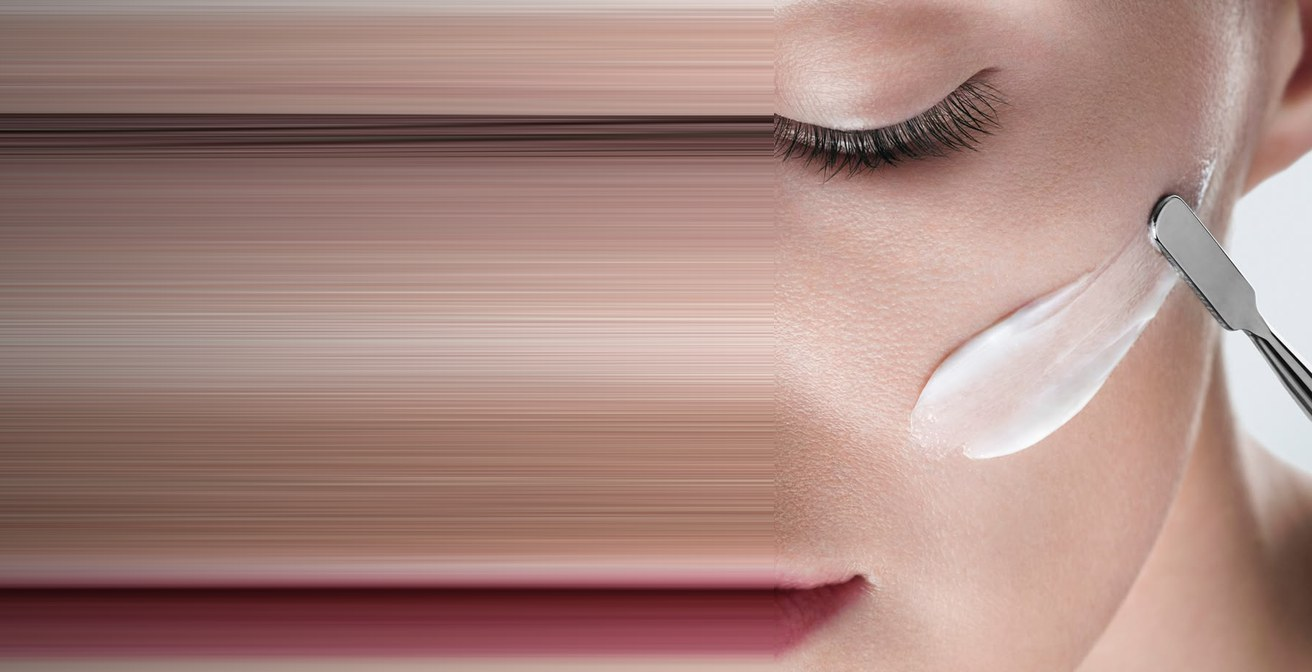
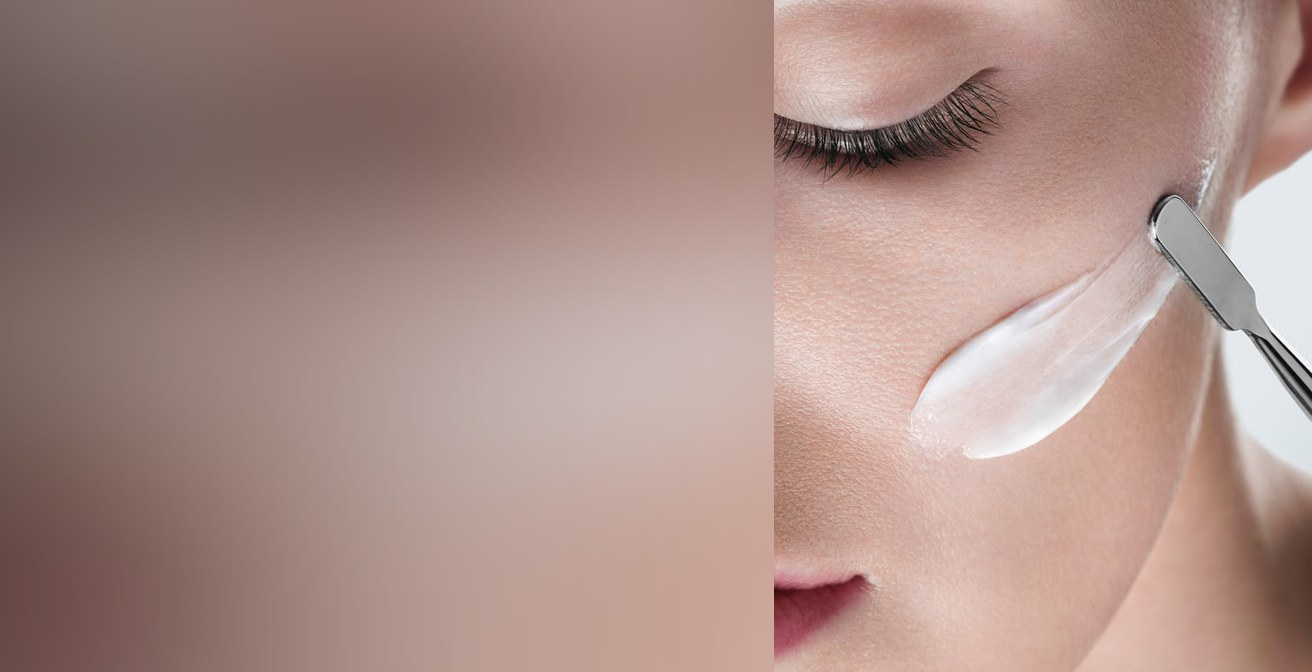
Фикс полос на обложке «Косметики» и замена оранжевых кадров
- compose() больше не растягивает краевой столбец пикселей (отсюда были
  горизонтальные полосы) — фон достраивается размытой копией кадра
- оранжевый крупный план убран из баннера SMAS, сторис и карточек
- из проекта удалены четыре кадра Omny с зашитой в картинку рекламой
  (цены и «спецпредложения» прямо на фото) — остались только чистые
- лабораторный портрет из фотобанка BYRAIN ушёл в карточку экзосом

Changed region(s): [[0.0, 0.4375, 0.5938, 1.0], [0.0, 0.0, 0.5938, 0.25]]

diff --git a/src/data/offers.ts b/src/data/offers.ts
@@ -128,7 +128,7 @@ export const OFFERS: Offer[] = [
     title: 'Ultraformer MPT, ультразвуковой SMAS-лифтинг', deal: '−45%',
     summary: 'Клиника эстетической медицины: безоперационный лифтинг на глубине SMAS. Эффект нарастает 3 месяца и держится до двух лет.',
     terms: ['Полное лицо и подбородочная зона', 'Консультация врача-косметолога', 'Контрольный визит через месяц', 'Домашний уход BYRAIN в подарок'],
-    address: 'Москва, Omny Beauty Clinic', valid: 'до 31 марта', image: 'img/omny-face.jpg', kind: 'promo', value: 120000,
+    address: 'Москва, Omny Beauty Clinic', valid: 'до 31 марта', image: 'img/omny-proc5.jpg', kind: 'promo', value: 120000,
   },
   {
     id: 'bt-omny-morpheus', section: 'beauty', brand: 'OMNY BEAUTY', city: 'Москва',
@@ -149,7 +149,7 @@ export const OFFERS: Offer[] = [
     title: 'Ботулинотерапия, техника full face', deal: '−25%',
     summary: 'Полное лицо в авторской технике: верхняя треть, периорбитальная зона и коррекция опущенных уголков.',
     terms: ['До 60 единиц препарата', 'Консультация и фотопротокол', 'Коррекция через 2 недели бесплатно'],
-    address: 'Москва, Omny Beauty Clinic', valid: 'до 31 декабря', image: 'img/omny-face2.jpg', kind: 'promo', value: 34000,
+    address: 'Москва, Omny Beauty Clinic', valid: 'до 31 декабря', image: 'img/omny-proc4.jpg', kind: 'promo', value: 34000,
   },
   {
     id: 'bt-omny-hydra', section: 'beauty', brand: 'OMNY BEAUTY', city: 'Москва',
@@ -170,28 +170,28 @@ export const OFFERS: Offer[] = [
     title: 'Fotona 4D, лазерное омоложение, курс из 3', deal: '−40%',
     summary: 'Четыре этапа за процедуру: лифтинг изнутри через слизистую, уплотнение дермы, выравнивание тона и финишная шлифовка.',
     terms: ['3 процедуры курсом', 'Все четыре этапа в каждой', 'Консультация врача перед курсом', 'Постуход включён'],
-    address: 'Москва, Omny Beauty Clinic', valid: 'до 31 мая', image: 'img/omny-proc4.jpg', kind: 'promo', value: 108000,
+    address: 'Москва, Omny Beauty Clinic', valid: 'до 31 мая', image: 'img/omny-proc6.jpg', kind: 'promo', value: 108000,
   },
   {
     id: 'bt-omny-exosome', section: 'beauty', brand: 'OMNY BEAUTY', city: 'Москва',
     title: 'Экзосомная терапия лица, курс из 3', deal: '−30%',
     summary: 'Протокол клиники на экзосомах: запуск регенерации, работа с тусклостью и мелкими морщинами после 35.',
     terms: ['3 процедуры курсом', 'Подбор протокола врачом', 'Лицо, шея и зона декольте', 'Интервал 2 недели'],
-    address: 'Москва, Omny Beauty Clinic', valid: 'до 31 июля', image: 'img/omny-proc5.jpg', kind: 'promo', value: 75000,
+    address: 'Москва, Omny Beauty Clinic', valid: 'до 31 июля', image: 'img/omny-lab.jpg', kind: 'promo', value: 75000,
   },
   {
     id: 'bt-omny-biorev', section: 'beauty', brand: 'OMNY BEAUTY', city: 'Москва',
     title: 'Биоревитализация, 3 процедуры', deal: '−25%',
     summary: 'Инъекционное увлажнение гиалуроновой кислотой: плотность, тонус и свежий тон кожи.',
     terms: ['3 процедуры курсом', 'Препарат на выбор врача', 'Анестезия включена', 'Интервал 2–3 недели'],
-    address: 'Москва, Omny Beauty Clinic', valid: 'до 31 декабря', image: 'img/omny-proc6.jpg', kind: 'promo', value: 36000,
+    address: 'Москва, Omny Beauty Clinic', valid: 'до 31 декабря', image: 'img/omny-proc.jpg', kind: 'promo', value: 36000,
   },
   {
     id: 'bt-omny-icoone', section: 'beauty', brand: 'OMNY BEAUTY', city: 'Москва',
     title: 'Icoone, аппаратный массаж тела, 10 сеансов', deal: '−35%',
     summary: 'Микростимуляция тканей: лимфодренаж, работа с отёками и плотностью кожи. Хорошо идёт в связке с Emsculpt.',
     terms: ['10 сеансов по 45 минут', 'Замеры объёмов до и после', 'Костюм предоставляется', '2–3 раза в неделю'],
-    address: 'Москва, Omny Beauty Clinic', valid: 'до 30 сентября', image: 'img/omny-portrait.jpg', kind: 'promo', value: 55000,
+    address: 'Москва, Omny Beauty Clinic', valid: 'до 30 сентября', image: 'img/omny-team.jpg', kind: 'promo', value: 55000,
   },
 
   /* ====================== КЛУБЫ ====================== */

diff --git a/src/data/stories.ts b/src/data/stories.ts
@@ -73,7 +73,7 @@ export const STORIES: Story[] = [
     id: 'st-beauty', section: 'beauty', label: 'Красота', cover: 'img/st-beauty.jpg',
     slides: [
       {
-        image: 'img/omny-face.jpg', eyebrow: 'Omny Beauty',
+        image: 'img/omny-proc5.jpg', eyebrow: 'Omny Beauty',
         title: 'SMAS-лифтинг Ultraformer, −45%',
         text: 'Безоперационный лифтинг на глубине SMAS. Эффект держится до двух лет.',
         cta: 'Записаться', target: { t: 'offer', id: 'bt-omny-smas' },

diff --git a/src/data/banners.ts b/src/data/banners.ts
@@ -41,7 +41,7 @@ export const BANNERS: Banner[] = [
     id: 'bn-omny', eyebrow: 'Omny Beauty Clinic',
     title: 'SMAS-лифтинг\nминус 45%',
     sub: 'Ultraformer MPT: безоперационный лифтинг с эффектом до двух лет',
-    cta: 'Записаться', image: 'img/omny-face.jpg', tone: 'dark',
+    cta: 'Записаться', image: 'img/omny-proc5.jpg', tone: 'dark',
     target: { t: 'offer', id: 'bt-omny-smas' }, sponsored: true,
   },
   {

diff --git a/scripts/fit.py b/scripts/fit.py
@@ -43,19 +43,13 @@ def compose(src, dst, w=1312, h=672, side='right', pad=0.0, quality=88, shade=0.
     iw = round(sw * ih / sh)
     photo = im.resize((iw, ih), Image.LANCZOS)
 
-    # фон: сильно размытая растянутая копия, чтобы тон совпал
-    bg = im.resize((w, h), Image.LANCZOS).filter(ImageFilter.GaussianBlur(radius=48))
+    # фон: размытая копия кадра во всю плашку — без полос и швов
+    bg = im.resize((w, h), Image.LANCZOS).filter(ImageFilter.GaussianBlur(radius=70))
     canvas = Image.new('RGB', (w, h))
     canvas.paste(bg, (0, 0))
 
-    # край фотографии растягиваем в поле, куда ляжет текст
     x = w - iw if side == 'right' else 0
     y = (h - ih) // 2
-    edge_col = photo.crop((0, 0, 6, ih)) if side == 'right' else photo.crop((iw - 6, 0, iw, ih))
-    if x > 0:
-        canvas.paste(edge_col.resize((x, ih), Image.LANCZOS), (0, y))
-    elif iw < w:
-        canvas.paste(edge_col.resize((w - iw, ih), Image.LANCZOS), (iw, y))
     canvas.paste(photo, (x, y))
 
     # мягкое затемнение со стороны подписей — чтобы текст читался на светлом кадре
